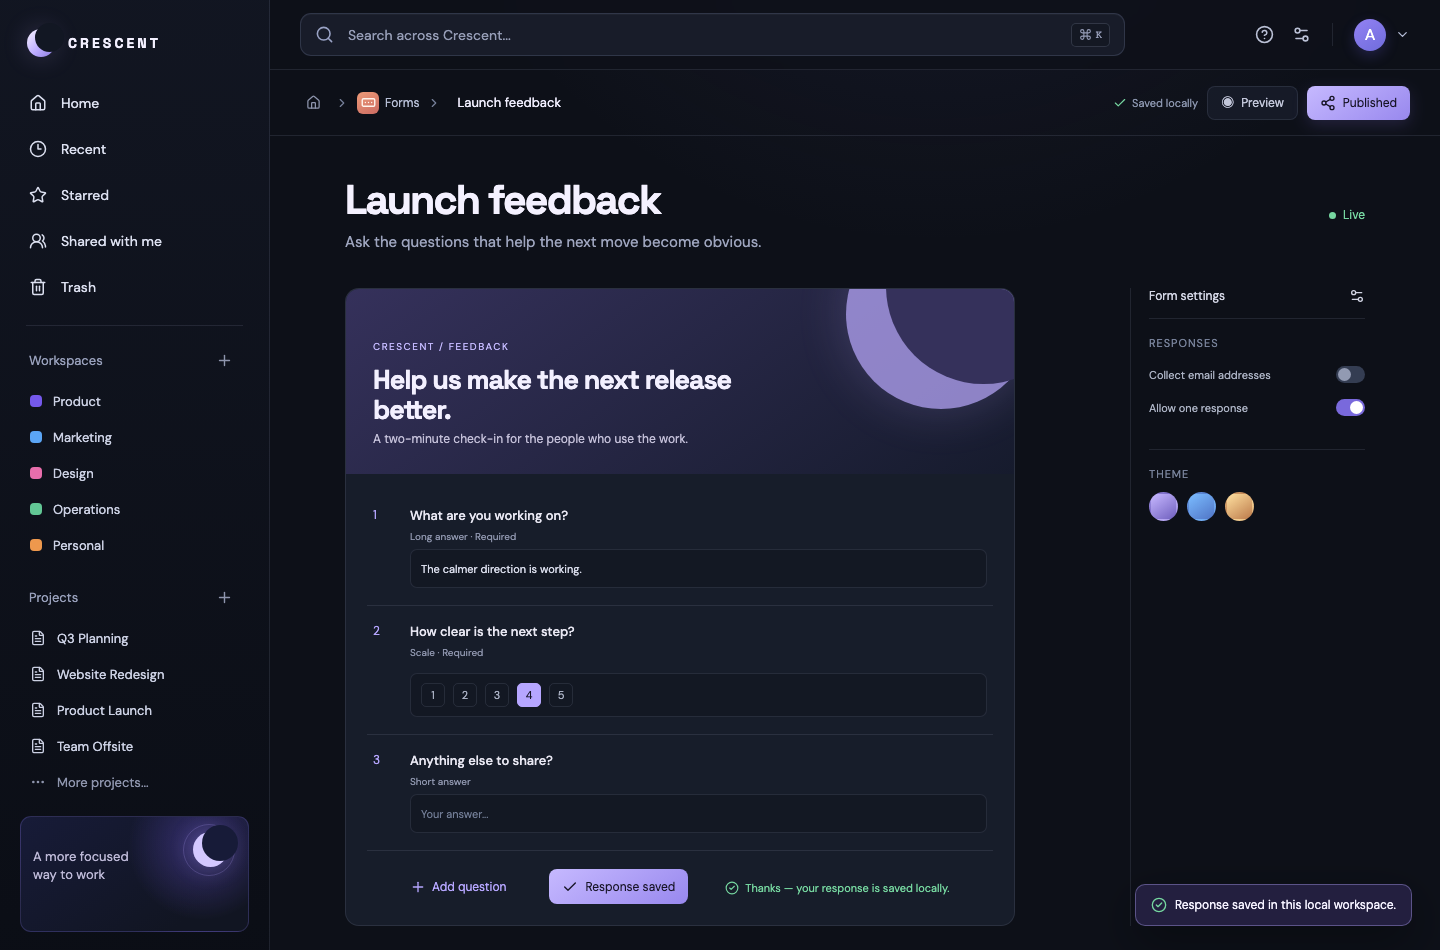
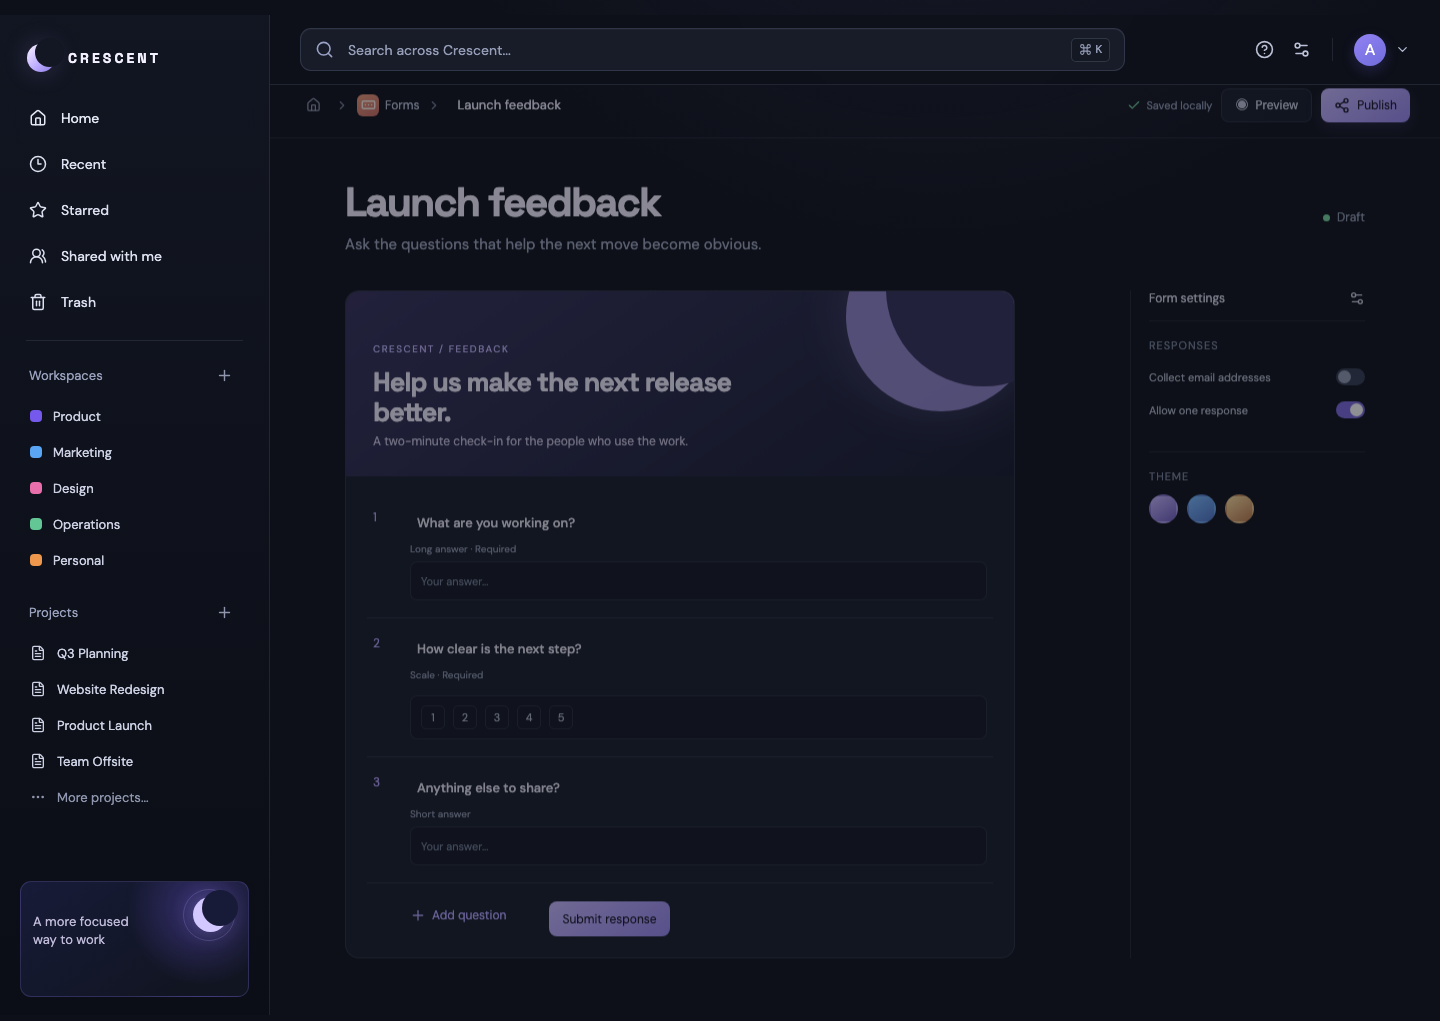
docs: refresh visual suite previews

diff --git a/README.md b/README.md
@@ -4,7 +4,7 @@ An all-in-one productivity workspace built to keep the work in one calm, consist
 
 ## Current release
 
-**v0.1.32 — Slides decks have a saved identity**
+**v0.1.33 — Visual checkpoint refreshed**
 
 The first release establishes the Crescent product shell and a local-first suite experience:
 
@@ -32,6 +32,7 @@ The first release establishes the Crescent product shell and a local-first suite
 - Creating a blank document in Drive makes that new title immediately discoverable through Search
 - Home’s Recent filters and the Recent utility view now include the saved Forms workspace file
 - Slides decks now have an editable, persisted title while individual slide titles remain searchable
+- Updated committed Home and Forms preview screenshots to show the current suite surface and Recent workspace state
 - Home’s Continue working and Recent shelves now use current local Docs, Sheets, Slides, and Notes titles
 - Drive’s Recent files shelf mirrors the same live workspace records, so creating a draft no longer leaves stale demo cards behind
 - Settings can download a versioned JSON backup of the local workspace and restore it later on the same device

diff --git a/CHANGELOG.md b/CHANGELOG.md
@@ -1,5 +1,20 @@
 # Changelog
 
+## v0.1.33 — Visual checkpoint refreshed
+
+Published September 8, 2026.
+
+### Changed
+
+- Refreshed `docs/preview/home.png` with the current app launcher, live Recent shelf, and Forms filter.
+- Refreshed `docs/preview/forms.png` with the current editable Forms builder surface.
+
+### Verification
+
+- Captured both screenshots from the running Vite app at desktop viewport size and visually reviewed them.
+- `npm run lint` passes with zero warnings.
+- `npm run build` passes.
+
 ## v0.1.32 — Slides decks have a saved identity
 
 Published September 8, 2026.
